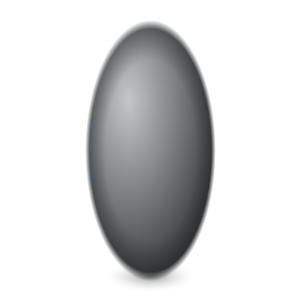
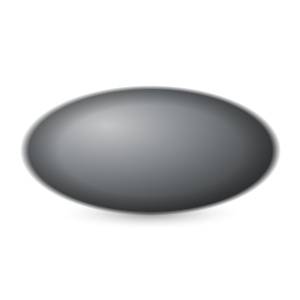
Corrige el squish de los frames a vertical y blinda los PNG contra corrupcion
El giro simulaba una moneda girando plana (squish horizontal); el pedido
era una moneda tumbando en el aire, que se ve como una elipse achatada
verticalmente en los frames de canto. Se intercambia que radio recibe el
factor de squish en _writeCoin (antes rx, ahora ry) - mismo angulo/formula,
misma logica de sombra y color, solo cambia el eje.

Se agrega .gitattributes marcando PNG/JPG/fuentes como binary: con
core.autocrlf=true en Windows y sin este archivo, git decide binario vs
texto por heuristica, lo que puede corromper un PNG al hacer checkout
("Unable to load asset ... has empty data"). No se detecto corrupcion en
el blob actual, pero esto lo previene hacia adelante en cualquier clon.

diff --git a/generate_placeholders.dart b/generate_placeholders.dart
@@ -9,10 +9,10 @@ import 'dart:typed_data';
 ///
 /// Each PNG is a transparent-background RGBA circle shaded like a metal
 /// coin (offset highlight + rim shadow + a soft drop shadow underneath).
-/// The 12 flip frames get a progressive horizontal squish
-/// (`|cos(angle)|`, one 30° step per frame) to fake the coin turning
-/// edge-on as it spins, and their base color blends from cara to cruz and
-/// back across that same angle.
+/// The 12 flip frames get a progressive vertical squish (`|cos(angle)|`,
+/// one 30° step per frame) to fake the coin tumbling end-over-end through
+/// the air, and their base color blends from cara to cruz and back across
+/// that same angle.
 ///
 /// Colors must match `CoinPalette` in lib/core/theme.dart — this script
 /// can't import Flutter code, so the hex values are duplicated here on
@@ -32,39 +32,42 @@ void main() {
 
   for (var i = 0; i < _frameCount; i++) {
     final angle = i * math.pi / 6; // 30° per frame, 360° over the sequence
-    final squishX = _clampD(math.cos(angle).abs(), 0.08, 1.0);
+    final squish = _clampD(math.cos(angle).abs(), 0.08, 1.0);
     final colorT = (1 - math.cos(angle)) / 2; // 0 = cara, 1 = cruz
-    final edgeShade = 0.55 + 0.45 * squishX; // the thin edge sits in shadow
+    final edgeShade = 0.55 + 0.45 * squish; // the thin edge sits in shadow
 
     final frameColor = _lerpRgb(_caraColor, _cruzColor, colorT)
         .map((c) => _clampI((c * edgeShade).round(), 0, 255))
         .toList();
 
     final name = 'frame_${i.toString().padLeft(2, '0')}.png';
-    _writeCoin('$base/assets/coin/flip_sequence/$name', frameColor, squishX);
+    _writeCoin('$base/assets/coin/flip_sequence/$name', frameColor, squish);
   }
 
   // ignore: avoid_print
   print('Generated 14 placeholder coin PNGs (2 faces + 12 flip frames)');
 }
 
-/// Draws a shaded metallic circle (squished horizontally by [squishX], 1.0
-/// = full face-on) with a soft drop shadow, on a transparent canvas.
-void _writeCoin(String path, List<int> baseColor, double squishX) {
+/// Draws a shaded metallic circle (squished vertically by [squish], 1.0 =
+/// full face-on) with a soft drop shadow, on a transparent canvas. The
+/// vertical squish simulates a coin tumbling end-over-end through the air
+/// (as opposed to spinning flat like a top, which would squish sideways).
+void _writeCoin(String path, List<int> baseColor, double squish) {
   const size = _canvasSize;
   final pixels = Uint8List(size * size * 4);
 
   const cx = size / 2, cy = size / 2;
   const r = size * 0.42;
-  final rx = r * squishX;
-  const ry = r;
+  const rx = r;
+  final ry = r * squish;
 
   final highlight = _lighten(baseColor, 0.55);
   final shadow = _darken(baseColor, 0.55);
   final rim = _darken(baseColor, 0.75);
 
-  const shadowCx = cx, shadowCy = cy + ry; // just under the coin's rim
-  final shadowRx = math.max(rx * 0.75, r * 0.10);
+  const shadowCx = cx;
+  final shadowCy = cy + ry; // just under the coin's rim
+  const shadowRx = rx * 0.75;
   const shadowRy = r * 0.13;
 
   for (var y = 0; y < size; y++) {

diff --git a/public_rag/app_look_feel.md b/public_rag/app_look_feel.md
@@ -77,10 +77,11 @@ Los 12 frames del giro (`flip_sequence/frame_00..11.png`) aplican, por
 frame `i`, un único ángulo `angle = i * π/6` (30° por frame, 360° en total)
 del que salen dos cosas a la vez:
 
-- **Squish horizontal** — `squishX = |cos(angle)|` (con piso 0.08 para que
-  el canto nunca desaparezca del todo) simula la moneda girando sobre su
-  eje vertical: ancho completo en `frame_00` (cara) y `frame_06` (cruz),
-  una elipse casi nula en `frame_03`/`frame_09` (de canto).
+- **Squish vertical** — `squish = |cos(angle)|` (con piso 0.08 para que el
+  canto nunca desaparezca del todo) simula la moneda tumbando de punta a
+  punta en el aire (no girando plana como un trompo, que sería squish
+  horizontal): alto completo en `frame_00` (cara) y `frame_06` (cruz), una
+  elipse achatada casi nula en `frame_03`/`frame_09` (de canto).
 - **Blend de color** — `colorT = (1 - cos(angle)) / 2` mezcla `_caraColor`
   → `_cruzColor` con el mismo ángulo, y el canto además se oscurece
   (`edgeShade`) porque una moneda de canto está en sombra.
